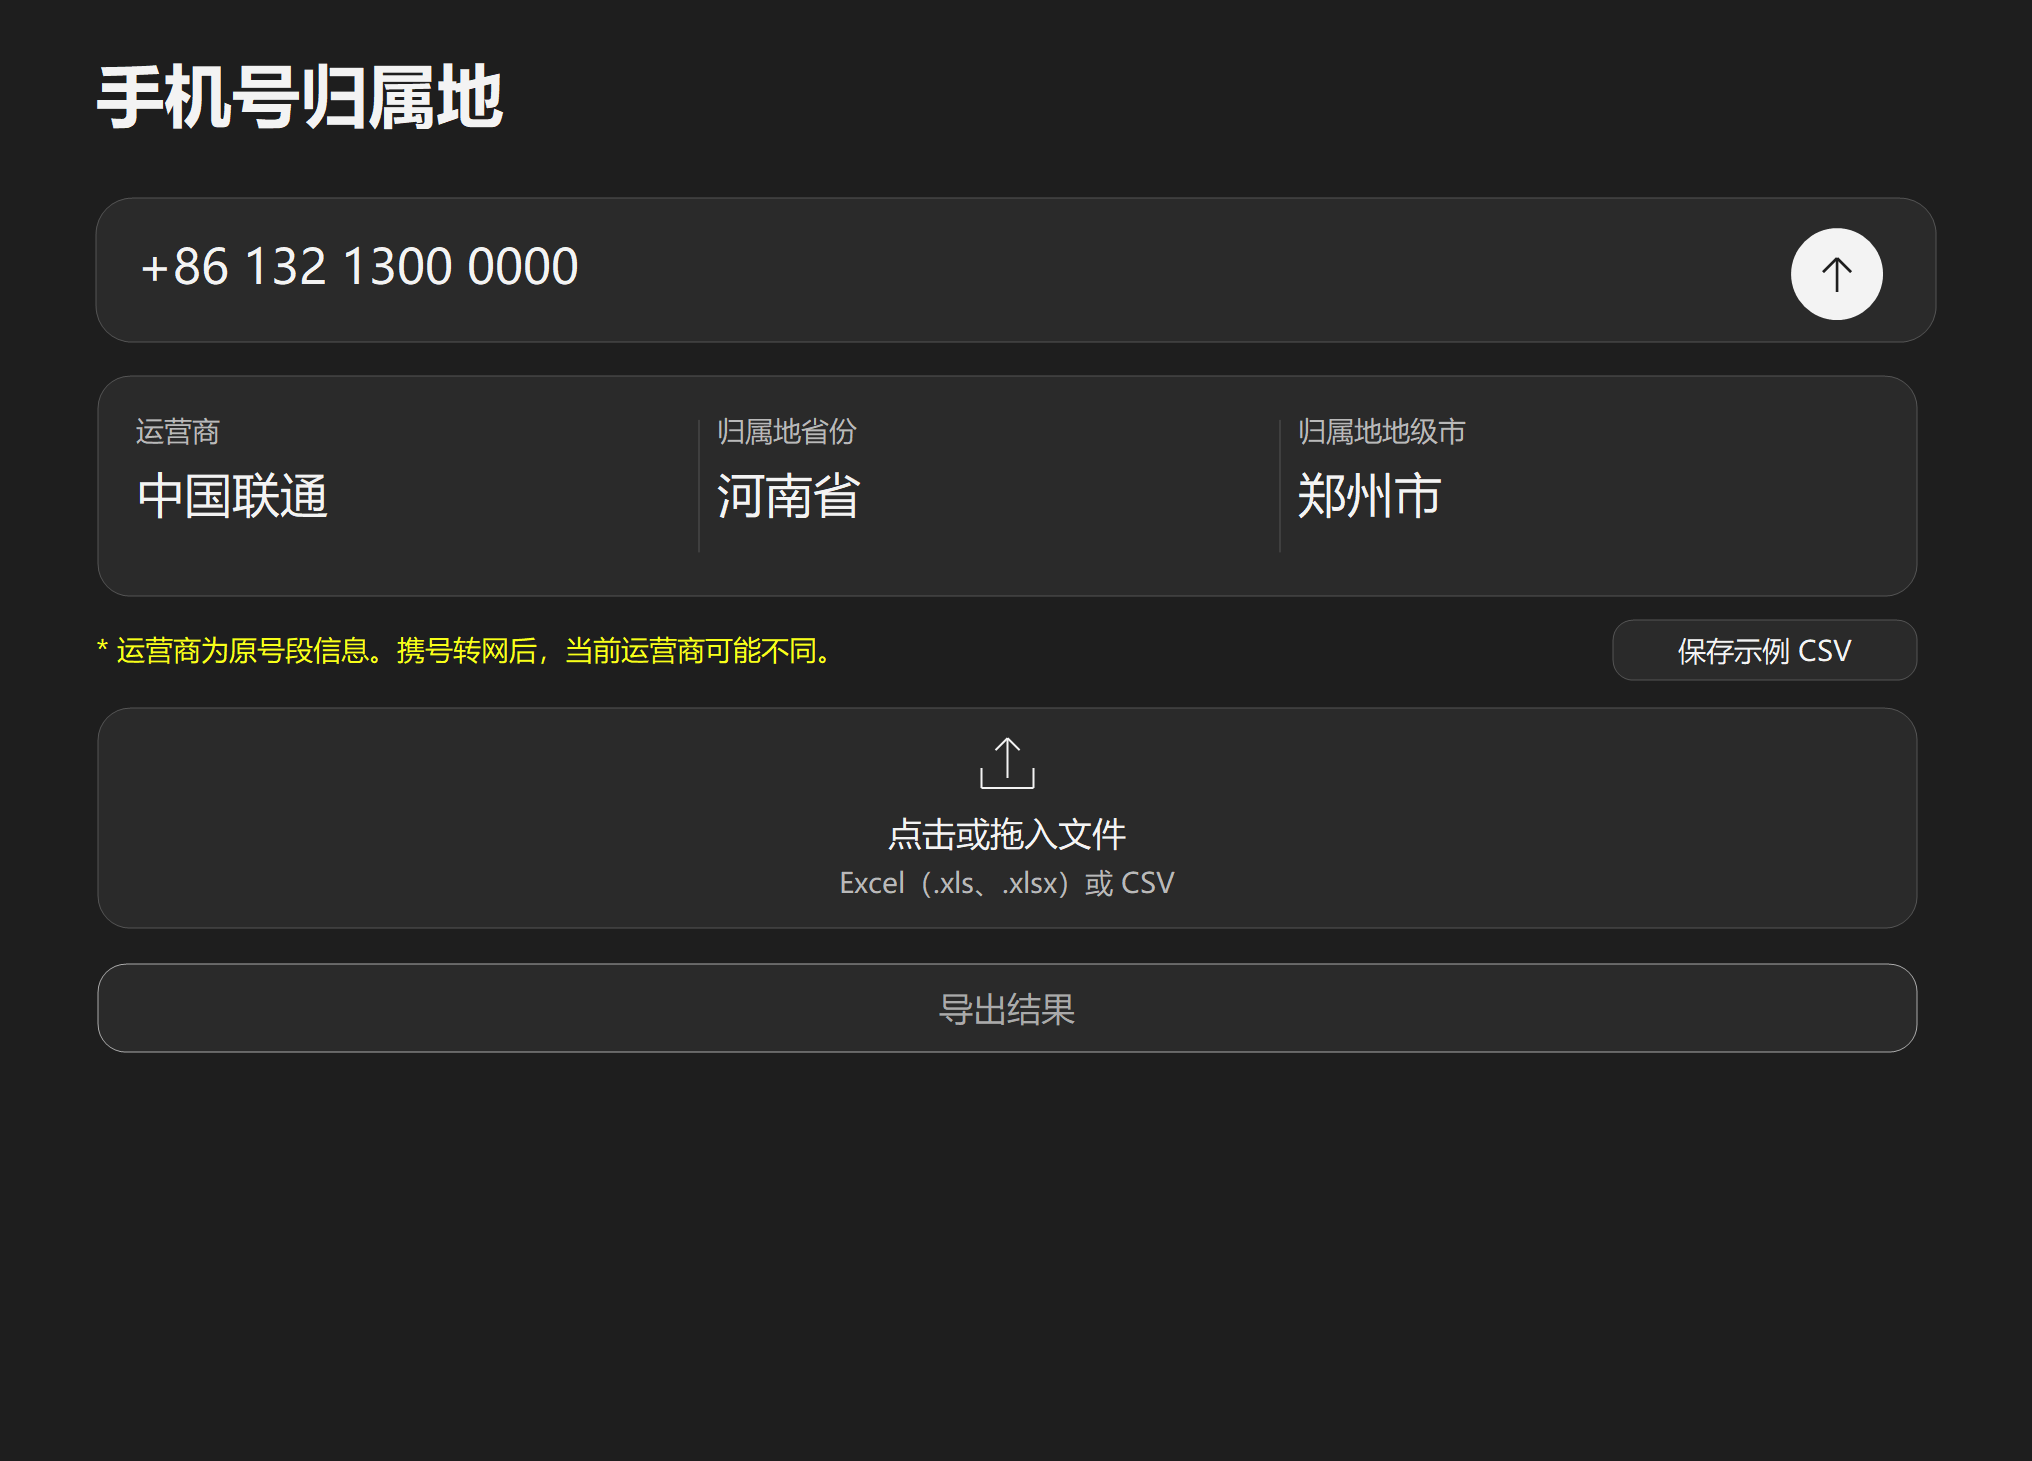
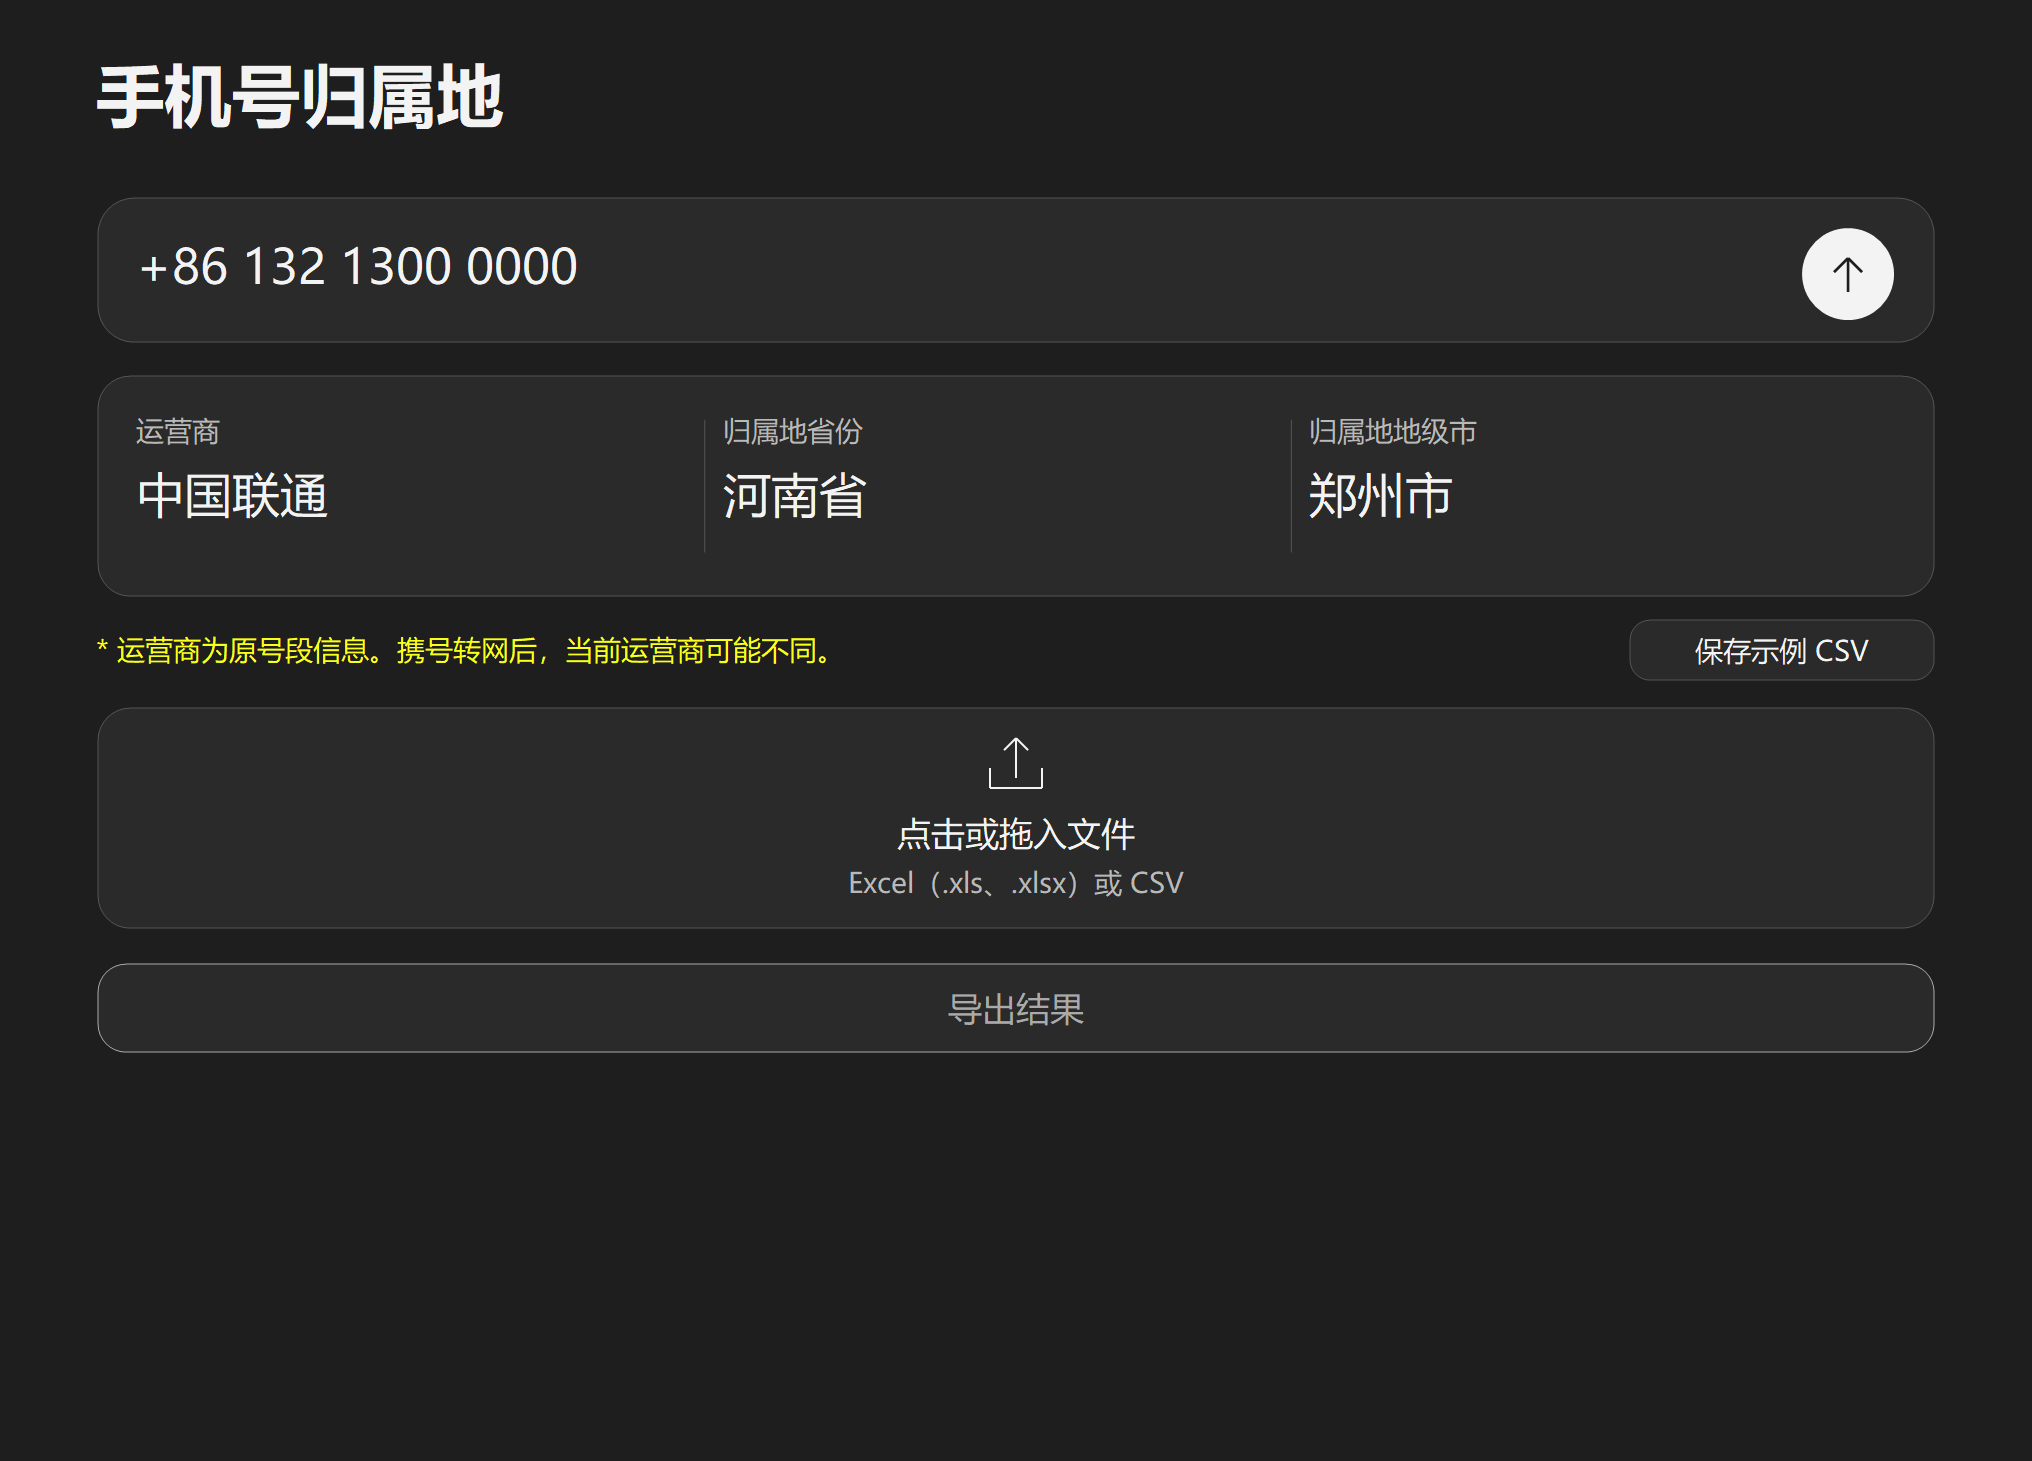
Refresh the bilingual guides and Windows demo for the aligned layout

diff --git a/README.en.md b/README.en.md
@@ -36,7 +36,7 @@
 
 <h2 align="center">Look up an entire file</h2>
 
-<p align="center"><a href="https://github.com/TaylorChyi/PhoneRegion/releases/download/v1.3.1/example.csv"><strong>Download a sample CSV</strong></a>, or click <strong>保存示例 CSV (Save sample CSV)</strong> above the drop area to get the same file offline.<br>It contains three number formats. For a single-number lookup, try <code>+86 132 1300 0000</code>.</p>
+<p align="center"><a href="https://github.com/TaylorChyi/PhoneRegion/releases/download/v1.3.2/example.csv"><strong>Download a sample CSV</strong></a>, or click <strong>保存示例 CSV (Save sample CSV)</strong> above the drop area to get the same file offline.<br>It contains three number formats. For a single-number lookup, try <code>+86 132 1300 0000</code>.</p>
 
 <p align="center">Click the <strong>点击或拖入文件 (Click or drop a file)</strong> box or drag one Excel (<code>.xls</code>, <code>.xlsx</code>) or CSV file onto it. Parsing and lookup start immediately.<br>Put the numbers in the first column and leave other columns as they are. Excel does not need to be installed.<br>The app reads column A of the first worksheet or the first CSV column. A common heading such as 手机号 (mobile number) is optional.</p>
 

diff --git a/README.md b/README.md
@@ -36,7 +36,7 @@
 
 <h2 align="center">整张表，也能一次查完</h2>
 
-<p align="center"><a href="https://github.com/TaylorChyi/PhoneRegion/releases/download/v1.3.1/example.csv"><strong>下载示例 CSV</strong></a>，或点击拖入框上方的<strong>「保存示例 CSV」</strong>按钮，离线获取同一份示例文件。<br>示例含三种号码格式，单号输入框可试 <code>+86 132 1300 0000</code>。</p>
+<p align="center"><a href="https://github.com/TaylorChyi/PhoneRegion/releases/download/v1.3.2/example.csv"><strong>下载示例 CSV</strong></a>，或点击拖入框上方的<strong>「保存示例 CSV」</strong>按钮，离线获取同一份示例文件。<br>示例含三种号码格式，单号输入框可试 <code>+86 132 1300 0000</code>。</p>
 
 <p align="center">在<strong>「点击或拖入文件」</strong>框中选择或拖入一个 Excel（<code>.xls</code>、<code>.xlsx</code>）或 CSV 文件，随后立即开始解析和查询。<br>号码放在首列即可，其他列无需整理，电脑也无需安装 Excel。<br>Excel 读取第一张工作表的 A 列，CSV 读取第一列。首行可以是「手机号」等常见表头。</p>
 
